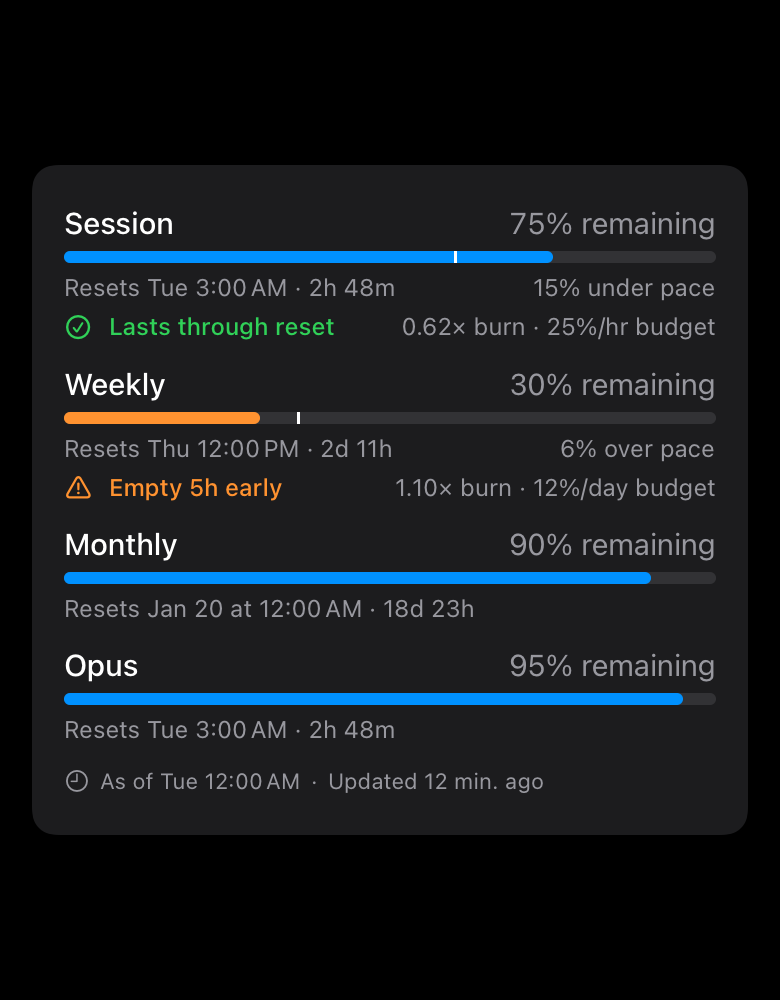
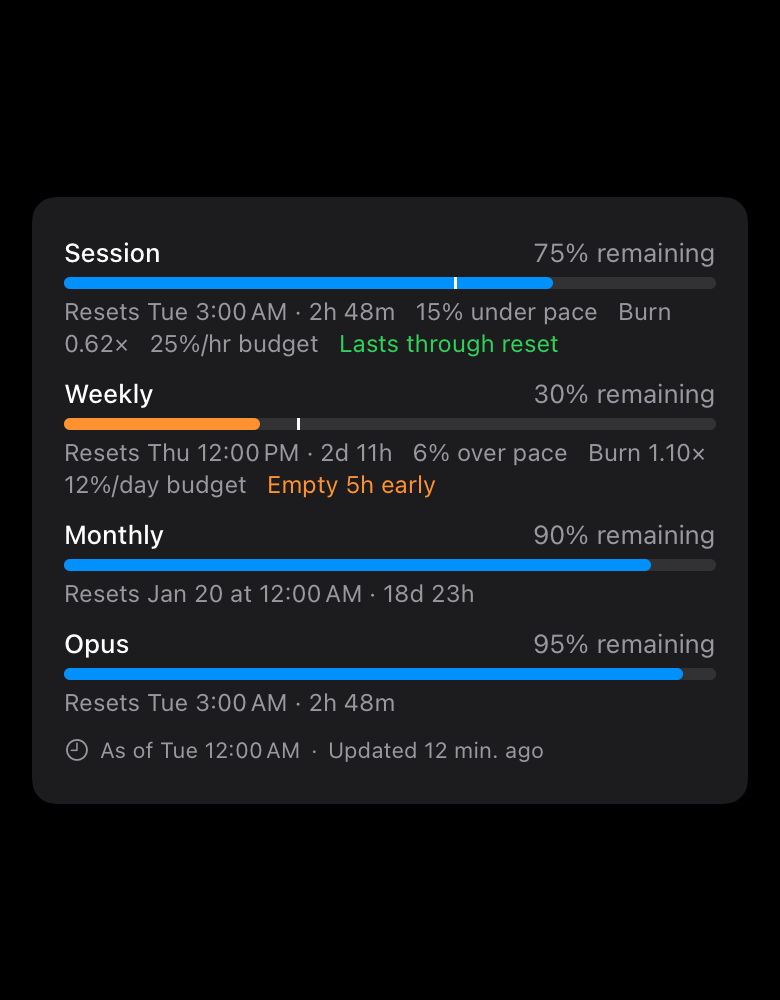
TAL-1750: Match the App quota rows to the Web and grid them at wide widths
Each window shows its label and percent, the meter, then one wrapping line of
reset, pace, burn, budget and forecast in small type, as the Web row does; the
account rows fill an adaptive grid so an iPad or an open Duo shows accounts
side by side. A fetch stamp ahead of the device clock reads "just now" instead
of a future time.

Changed region(s): [[0.0308, 0.155, 0.9846, 0.496], [0.0308, 0.527, 0.9538, 0.837]]

diff --git a/app/Talaria/Features/Insights/ProviderQuotaDetailView.swift b/app/Talaria/Features/Insights/ProviderQuotaDetailView.swift
@@ -183,7 +183,7 @@ struct ProviderQuotaWindowsView: View {
         let periods = Self.periods(for: widgetSource, settings: settings, at: referenceDate)
         let sourceState = ProviderQuotaPresentation.state(for: widgetSource, settings: settings, at: referenceDate)
 
-        VStack(alignment: .leading, spacing: 12) {
+        VStack(alignment: .leading, spacing: 10) {
             ForEach(periods) { period in
                 window(period)
             }
@@ -242,18 +242,20 @@ struct ProviderQuotaWindowsView: View {
 
     // MARK: Windows
 
+    /// The Web row's shape: label and percent, the meter, then one wrapping line of reset, pace, burn, budget and
+    /// forecast in small type.
     private func window(_ period: ProviderQuotaPeriodPresentation) -> some View {
         let state = period.state
         let forecast = ProviderQuotaForecastSummary(state: state)
 
-        return VStack(alignment: .leading, spacing: 5) {
+        return VStack(alignment: .leading, spacing: 4) {
             HStack(alignment: .firstTextBaseline) {
                 Text(state.window?.label ?? period.shortLabel)
-                    .font(.subheadline.weight(.medium))
+                    .font(.footnote.weight(.medium))
                 Spacer(minLength: 8)
                 if let percent = state.percent {
                     Text("\(insightsFormattedPercent(percent)) \(state.modeLabel)")
-                        .font(.subheadline.monospacedDigit())
+                        .font(.footnote.monospacedDigit())
                         .foregroundStyle(.secondary)
                 } else if let detail = state.window?.detail, !detail.isEmpty {
                     Text(detail)
@@ -271,48 +273,39 @@ struct ProviderQuotaWindowsView: View {
                 )
             }
 
-            HStack(alignment: .firstTextBaseline, spacing: 8) {
-                if let resetAt = state.resetAt {
-                    Text(resetLabel(resetAt, period: period))
-                } else if let detail = state.window?.detail, !detail.isEmpty, state.percent != nil {
-                    Text(detail)
-                }
-                Spacer(minLength: 8)
-                if let paceLabel = state.paceLabel {
-                    Text(paceLabel)
-                } else if state.paceNeedsRefresh {
-                    Text("Refresh needed")
-                }
-            }
-            .font(.caption)
-            .foregroundStyle(.secondary)
-
-            if let pace = state.pace {
-                if let serverForecast = state.forecast {
-                    HStack(alignment: .firstTextBaseline, spacing: 8) {
-                        // The forecast keeps one line; the figures wrap between units, never inside one.
-                        Label(forecast.forecastLabel, systemImage: forecast.systemImage)
-                            .font(.caption.weight(.medium))
-                            .foregroundStyle(forecast.outcome.tint)
-                            .layoutPriority(1)
-                        Spacer(minLength: 8)
-                        Text(serverForecast.budgetPercent == nil
-                            ? String(localized: "\(forecast.burnRateLabel)\u{00A0}burn")
-                            : String(localized: "\(forecast.burnRateLabel)\u{00A0}burn · \(forecast.budgetLabel)\(Self.unbreakable(forecast.budgetUnitSuffix))\u{00A0}budget"))
-                            .font(.caption)
-                            .foregroundStyle(.secondary)
-                            .multilineTextAlignment(.trailing)
-                    }
-                } else {
-                    // A pace without a forecast still names its burn; the summary's placeholder wording is for widgets.
-                    Text("\(pace.burnRate.formatted(.number.precision(.fractionLength(2))))× burn")
-                        .font(.caption)
-                        .foregroundStyle(.secondary)
-                        .frame(maxWidth: .infinity, alignment: .trailing)
-                }
-            }
+            metadata(period, forecast: forecast)
+                .font(.caption)
+                .foregroundStyle(.secondary)
+                .fixedSize(horizontal: false, vertical: true)
         }
         .accessibilityElement(children: .combine)
+    }
+
+    /// One text that wraps between items, like the Web's row: the forecast item carries its tint.
+    private func metadata(_ period: ProviderQuotaPeriodPresentation, forecast: ProviderQuotaForecastSummary) -> Text {
+        let state = period.state
+        var items: [Text] = []
+        if let resetAt = state.resetAt {
+            items.append(Text(resetLabel(resetAt, period: period)))
+        } else if let detail = state.window?.detail, !detail.isEmpty, state.percent != nil {
+            items.append(Text(detail))
+        }
+        if let paceLabel = state.paceLabel {
+            items.append(Text(paceLabel))
+        } else if state.paceNeedsRefresh {
+            items.append(Text("Refresh needed"))
+        }
+        if let pace = state.pace {
+            items.append(Text("Burn \(pace.burnRate.formatted(.number.precision(.fractionLength(2))))×"))
+            if let serverForecast = state.forecast {
+                if serverForecast.budgetPercent != nil {
+                    items.append(Text("\(forecast.budgetLabel)\(forecast.budgetUnitSuffix) budget"))
+                }
+                items.append(Text(forecast.forecastLabel).foregroundStyle(forecast.outcome.tint))
+            }
+        }
+        guard let first = items.first else { return Text("") }
+        return items.dropFirst().reduce(first) { $0 + Text("   ") + $1 }
     }
 
     private func resetLabel(_ resetAt: Date, period: ProviderQuotaPeriodPresentation) -> String {
@@ -384,7 +377,7 @@ struct ProviderQuotaWindowsView: View {
                 }
                 if let fetchedAt {
                     if state.computedAt != nil { Text("·") }
-                    Text("Updated \(Self.relativeFormatter.localizedString(for: fetchedAt, relativeTo: referenceDate))")
+                    Text("Updated \(Self.relativeFormatter.localizedString(for: min(fetchedAt, referenceDate), relativeTo: referenceDate))")
                 }
                 if state.isStale {
                     Text("· Stale")
@@ -397,11 +390,6 @@ struct ProviderQuotaWindowsView: View {
     }
 
     // MARK: Helpers
-
-    /// "/hr" with a word joiner after the slash, so "25%/hr" never breaks into "25%/" and "hr".
-    private static func unbreakable(_ unitSuffix: String) -> String {
-        unitSuffix.replacingOccurrences(of: "/", with: "/\u{2060}")
-    }
 
     private static let relativeFormatter: RelativeDateTimeFormatter = {
         let formatter = RelativeDateTimeFormatter()

diff --git a/app/Talaria/Features/Insights/InsightsView.swift b/app/Talaria/Features/Insights/InsightsView.swift
@@ -166,43 +166,40 @@ struct InsightsView: View {
         if visibleQuotaSources.isEmpty {
             foldAvoiding(quotaStatus)
         } else {
-            // One clock for every row; the countdowns move together once a minute.
+            // One clock for every row; the countdowns move together once a minute. Rows fill a grid, so an iPad or an
+            // open Duo shows accounts side by side instead of one card stretched across the width.
             TimelineView(.everyMinute) { context in
-                List {
-                    ForEach(visibleQuotaSources) { source in
-                        ProviderQuotaAccountRow(
-                            source: source,
-                            scopeID: quotaViewModel.quotaScopeID ?? "",
-                            displayName: providerDisplayName(source),
-                            percentageMode: ProviderQuotaPercentageMode(rawValue: quotaPercentageModeRawValue) ?? .defaultValue,
-                            isRefreshing: quotaViewModel.refreshingQuotaSourceIDs.contains(source.id),
-                            referenceDate: context.date,
-                            open: { selection = .quotaSource(id: source.id) }
-                        )
-                        .listRowInsets(EdgeInsets(top: 12, leading: 16, bottom: 12, trailing: 16))
-                        .swipeActions(edge: .trailing) {
-                            Button {
-                                hideProvider(source.providerID)
-                            } label: {
-                                Label("Hide", systemImage: "eye.slash")
-                            }
-                            .tint(.orange)
-                        }
-                        .contextMenu {
-                            Button {
-                                Task { await refreshQuotaSource(source.id) }
-                            } label: {
-                                Label("Refresh", systemImage: "arrow.clockwise")
-                            }
-                            Button {
-                                hideProvider(source.providerID)
-                            } label: {
-                                Label("Hide from Insights", systemImage: "eye.slash")
+                ScrollView {
+                    LazyVGrid(columns: [GridItem(.adaptive(minimum: 340, maximum: 600), spacing: 16, alignment: .top)], alignment: .leading, spacing: 16) {
+                        ForEach(visibleQuotaSources) { source in
+                            ProviderQuotaAccountRow(
+                                source: source,
+                                scopeID: quotaViewModel.quotaScopeID ?? "",
+                                displayName: providerDisplayName(source),
+                                percentageMode: ProviderQuotaPercentageMode(rawValue: quotaPercentageModeRawValue) ?? .defaultValue,
+                                isRefreshing: quotaViewModel.refreshingQuotaSourceIDs.contains(source.id),
+                                referenceDate: context.date,
+                                open: { selection = .quotaSource(id: source.id) }
+                            )
+                            .padding(14)
+                            .background(Color(.secondarySystemGroupedBackground), in: RoundedRectangle(cornerRadius: 16, style: .continuous))
+                            .contextMenu {
+                                Button {
+                                    Task { await refreshQuotaSource(source.id) }
+                                } label: {
+                                    Label("Refresh", systemImage: "arrow.clockwise")
+                                }
+                                Button {
+                                    hideProvider(source.providerID)
+                                } label: {
+                                    Label("Hide from Insights", systemImage: "eye.slash")
+                                }
                             }
                         }
                     }
+                    .padding(.horizontal)
+                    .padding(.bottom)
                 }
-                .listStyle(.insetGrouped)
             }
             .accessibilityIdentifier("provider-quota-section")
             .refreshable {

diff --git a/app/TalariaTests/InsightsHostedTests.swift b/app/TalariaTests/InsightsHostedTests.swift
@@ -138,8 +138,8 @@ final class InsightsHostedTests: XCTestCase {
         }
         let labels = seen.joined(separator: "\n")
         for expected in [
-            "15% under pace", "Lasts through reset", "0.62×\u{00A0}burn · 25%/\u{2060}hr\u{00A0}budget",
-            "Weekly, 30% remaining", "6% over pace", "Empty 5h early", "1.10×\u{00A0}burn · 12%/\u{2060}day\u{00A0}budget",
+            "15% under pace", "Lasts through reset", "Burn 0.62×", "25%/hr budget",
+            "Weekly, 30% remaining", "6% over pace", "Empty 5h early", "Burn 1.10×", "12%/day budget",
             // Clock times end in a narrow no-break space before AM/PM, so the expectations stop at the minutes.
             "Monthly, 90% remaining", "Resets Jan 20 at 12:00", "Session, 75% remaining, Resets Tue 3:00", "As of Tue 12:00", "Updated 12 min. ago", "Last checked",
         ] {
@@ -155,7 +155,7 @@ final class InsightsHostedTests: XCTestCase {
         let labels = HostedAccessibility.labels(in: window).joined(separator: "\n")
         XCTAssertTrue(labels.contains("60% remaining"), labels)
         XCTAssertTrue(labels.contains("Resets"), labels)
-        for absent in ["burn", "pace", "Lasts through reset", "budget", "Refresh needed"] {
+        for absent in ["Burn", "pace", "Lasts through reset", "budget", "Refresh needed"] {
             XCTAssertFalse(labels.contains(absent), "\(absent) shown without a server pace:\n\(labels)")
         }
     }

diff --git a/app/Talaria/Features/Insights/ProviderQuotaAccountRow.swift b/app/Talaria/Features/Insights/ProviderQuotaAccountRow.swift
@@ -16,7 +16,7 @@ struct ProviderQuotaAccountRow: View {
 
     var body: some View {
         Button(action: open) {
-            VStack(alignment: .leading, spacing: 8) {
+            VStack(alignment: .leading, spacing: 10) {
                 header
                 ProviderQuotaWindowsView(
                     source: source,
@@ -35,9 +35,9 @@ struct ProviderQuotaAccountRow: View {
 
     private var header: some View {
         HStack(alignment: .firstTextBaseline, spacing: 7) {
-            ProviderIconView(providerID: source.providerID, label: displayName, size: 20)
+            ProviderIconView(providerID: source.providerID, label: displayName, size: 18)
             Text(displayName)
-                .font(.headline)
+                .font(.subheadline.weight(.semibold))
                 .lineLimit(dynamicTypeSize.isAccessibilitySize ? 2 : 1)
             if let plan = source.plan, !plan.isEmpty {
                 Text(plan)
